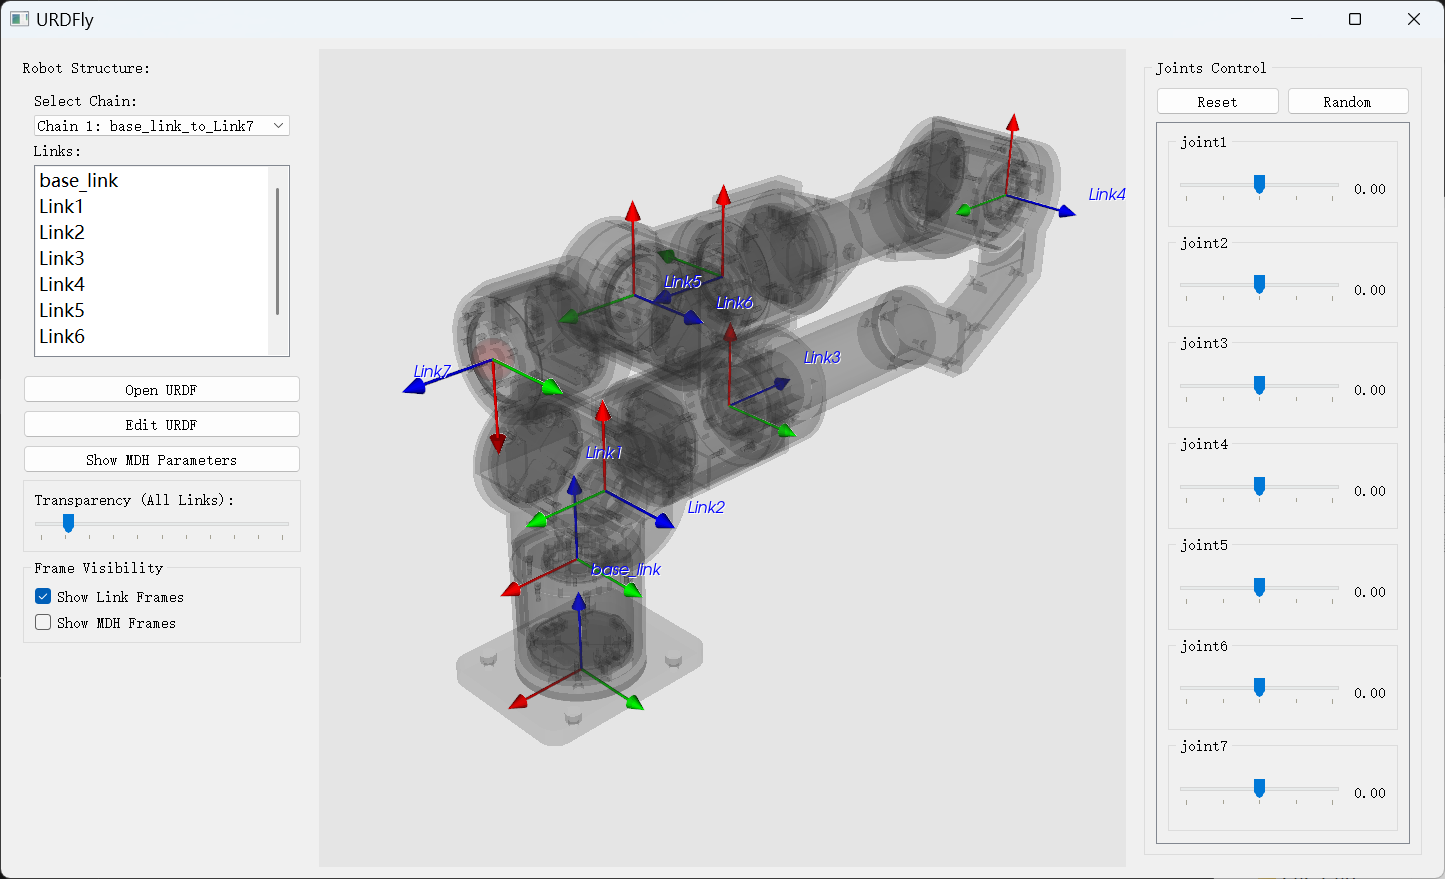
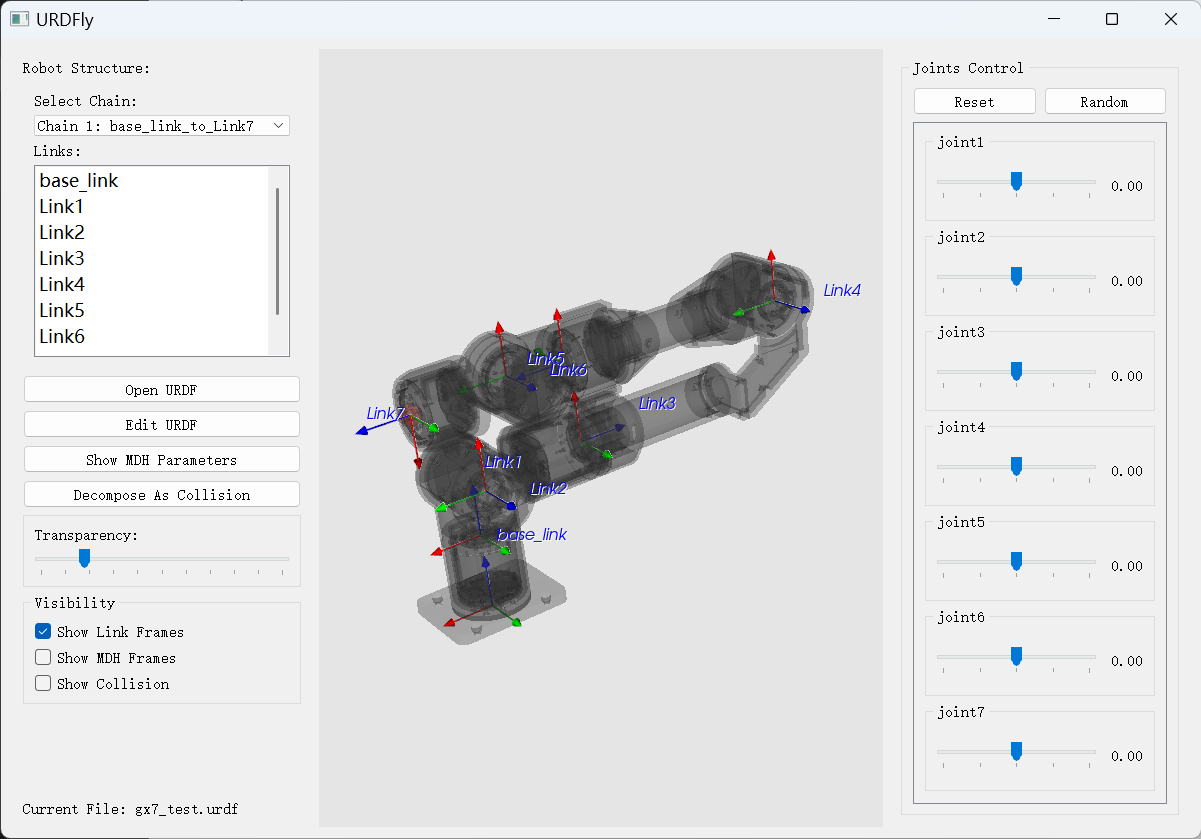
update readme

diff --git a/xml_editor.py b/xml_editor.py
@@ -135,7 +135,7 @@ class XMLEditor(QMainWindow):
         
         # Get screen size and calculate center position
         screen = QDesktopWidget().availableGeometry()
-        x = (screen.width() - window_width) // 2
+        x = (screen.width() - window_width) // 2 - window_width // 2
         y = (screen.height() - window_height) // 2
         
         # Set window geometry to be centered on screen

diff --git a/README.md b/README.md
@@ -1,7 +1,6 @@
 # URDFly
 
 ![GX7 Robot Arm](assets/gx7.png)
-![alt text](assets/schunk.png)
 ![Poppy Robot](assets/poppy.png)
 
 ## Overview
@@ -24,6 +23,9 @@ URDFly is a Python-based toolkit for working with URDF (Unified Robot Descriptio
 - Support highligt link by clicking the Links list.
 - Support original link axes visualization and M-DH axes visualization
 - Support virtual link visualization by a read sphere.
+- Support collision mesh visualization
+
+![alt text](assets/gx7_collision.png)
 
 ### MDH Parameter Conversion
 
@@ -31,9 +33,23 @@ The project includes a tool for converting URDF to Modified DH (MDH) parameters.
 
 ![alt text](assets/gx7-mdh.png)
 
-The MDH can be used to calculate the forward kinematics of the robot and generate dynamics regressor for dynamics identification.
+The MDH can be used to calculate the forward kinematics of the robot and generate dynamics regressor (this takes a while) for dynamics identification.
 
 ![alt text](assets/gx7-mdh-fk.png)
+
+### URDF Editing and Visualization
+
+The project includes a editor for URDF file. Clicking the `Edit URDF` button can open the editor. Clincking the `update` button will update the visulazation from the modified urdf. The editor provides searching and autofill of different `pi` with adjustable precision.
+
+![alt text](assets/urdf-editor.png)
+
+### Convex Decomposition
+
+URDFly provides a utility to decompose collision meshes into convex shapes, which can be useful for physics simulations and collision detection. Clicking the `Decompose As Collision` button and editing the `maxConvexHulls` parameter can decompose the collision mesh into a specified number of convex hulls.
+
+![alt text](assets/convex_decomp.png)
+
+After clicking `ok` (this will take a while to do the convex decomposition) the URDF editor will pop up and clicking `update` button will update the visulazation from the modified urdf.
 
 ## Installation
 
